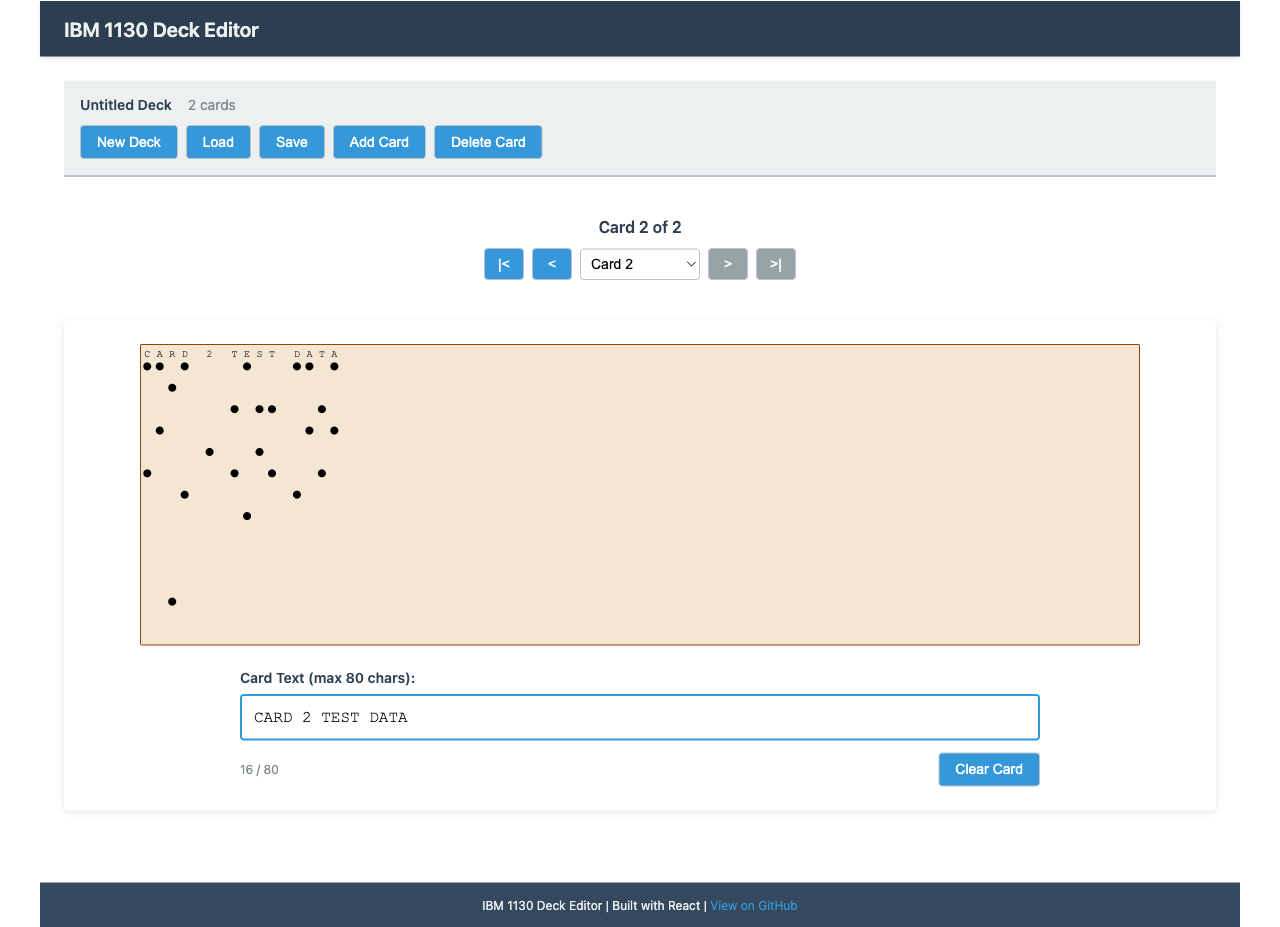
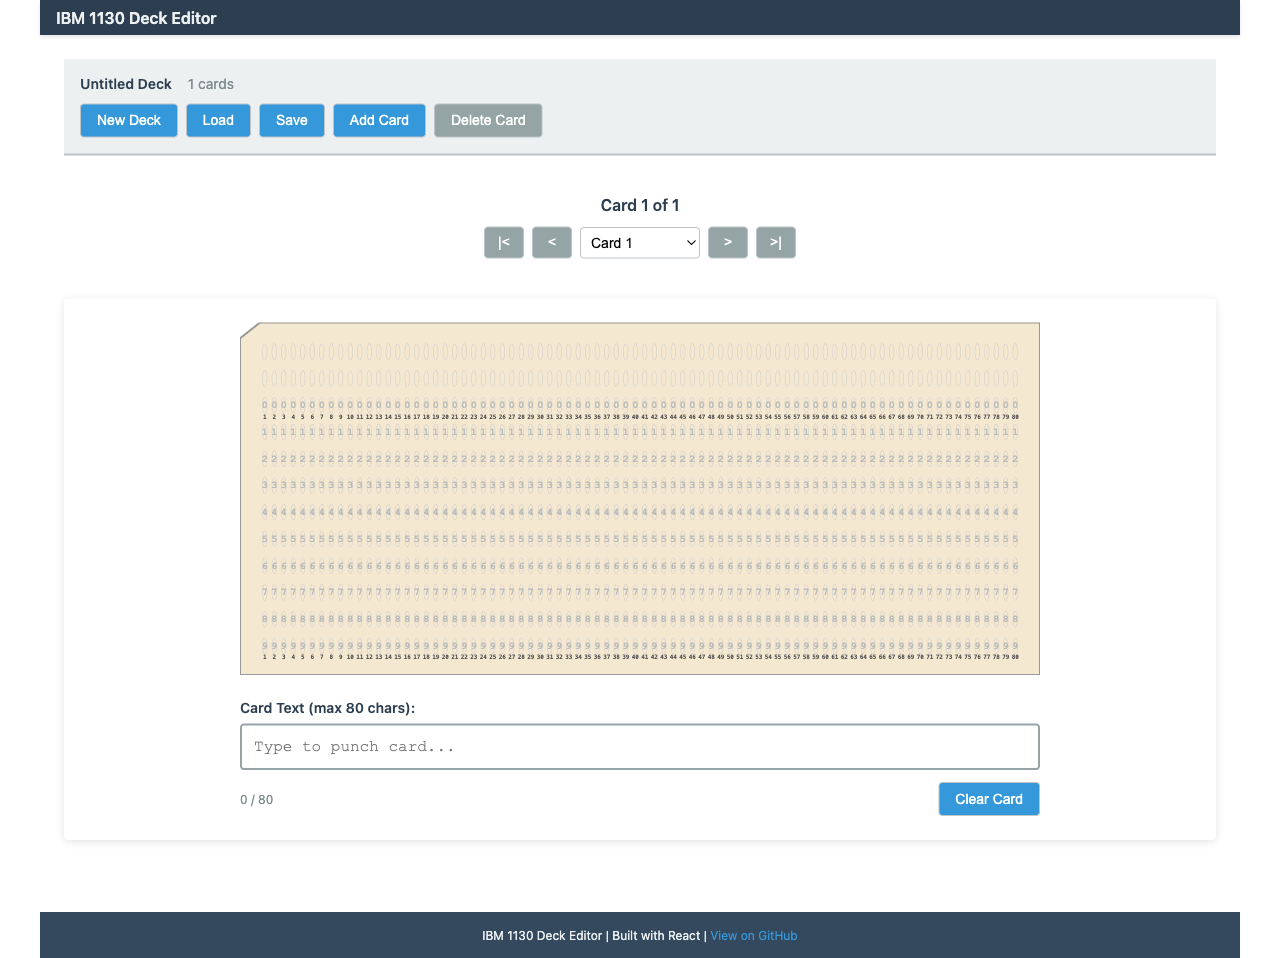
docs: Update screenshot and add keyboard shortcuts documentation
Update the project screenshot to reflect the latest UI improvements
and document the new keyboard navigation features.

Screenshot Changes:
- Replaced with latest UI showing improved design
- Shows authentic IBM card with rectangular punches
- Displays pre-printed digits and column numbers
- Features reduced header height

README Updates:
- Added "Keyboard Shortcuts" section under Usage
- Documented Enter key behavior (advance/add card)
- Documented Tab key behavior (advance/add card)
- Documented Shift+Tab behavior (previous card)
- Emphasized keypunch machine similarity

Files Modified:
- images/screenshot.png - New screenshot with latest UI
- README.md:198-206 - New Keyboard Shortcuts section

These changes help users discover the efficient keyboard-driven
workflow for rapid card entry.

🤖 Generated with [Claude Code](https://claude.com/claude-code)

Changed region(s): [[0.0938, 0.3323, 0.9062, 0.8759], [0.0312, 0.0, 0.9688, 0.1812], [0.375, 0.1812, 0.625, 0.302]]

diff --git a/README.md b/README.md
@@ -195,6 +195,16 @@ npm start
 4. See Hollerith punch patterns update in real-time
 5. Click "Clear Card" to reset current card
 
+### Keyboard Shortcuts
+
+The deck editor supports keyboard shortcuts for efficient card navigation, similar to an authentic keypunch machine:
+
+- **Enter** - Advance to next card (or add new card if at end of deck)
+- **Tab** - Advance to next card (or add new card if at end of deck)
+- **Shift+Tab** - Navigate to previous card
+
+These shortcuts work when the text input field is focused, enabling rapid card entry without reaching for the mouse.
+
 ### Saving a Deck
 
 1. Click "Save" button
